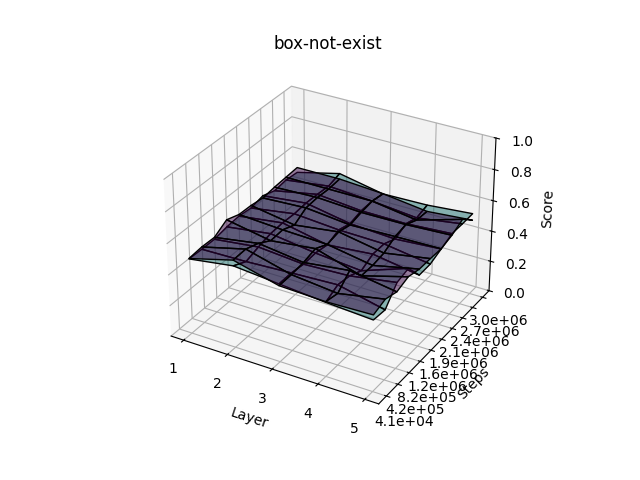
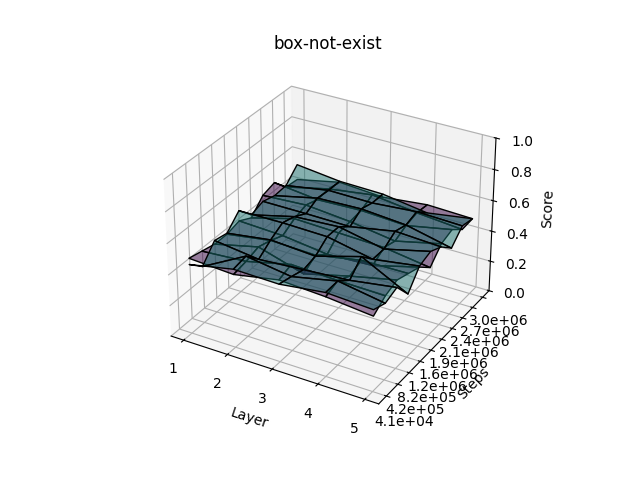
model

Changed region(s): [[0.2812, 0.3438, 0.75, 0.6875]]

diff --git a/methods/src/cav/__main__.py b/methods/src/cav/__main__.py
@@ -15,6 +15,7 @@ action_space = gym.action_space
 
 env = CAVWrapper(gym)
 concept_names = env.get_concept_names()
+concept_names = ["box-block", "box-not-block", "box-not-exist"]
 
 
 def plot(positive_concept: str, cav_scores: list, steps: list, prefix: str = ""):
@@ -40,7 +41,7 @@ def analyse(
         analysis = Analysis(
             models, positive_concept + ".csv", negative_concept + ".csv"
         )
-        analysis.run(averages=10)
+        analysis.run(averages=1)
         cav_scores.append(analysis.cav_scores)
         tcav_scores.append(analysis.tcav_scores)
         steps.append(analysis.steps)
@@ -54,4 +55,3 @@ for concept in concept_names:
         concept, negative_concept, observation_space, action_space
     )
     plot(concept, cav_scores, steps)
-    plot(concept, tcav_scores, steps, prefix="_tcav")

diff --git a/rl/src/dqn/dqn.py b/rl/src/dqn/dqn.py
@@ -47,8 +47,8 @@ class DQN(SingleAgentBase):
         epsilon_start: float = 1.0,
         epsilon_end: float = 0.05,
         epsilon_decay: int = 100000,
-        slow_decay_point: float = 0.45,
-        slow_decay_factor: float = 5,
+        slow_decay_point: float = 1,
+        slow_decay_factor: float = 1,
         batch_size: int = 64,
         tau: float = 0.005,
         hidden_layers: list[int] = [128, 128],

diff --git a/environments/gymnasium/envs/tag/tag_state.py b/environments/gymnasium/envs/tag/tag_state.py
@@ -28,7 +28,7 @@ class TagState:
         self.screen_height = screen_height
         self.state_type = state_type
         self.random_seeker_position = True
-        self.random_hider_position = False
+        self.random_hider_position = True
         self.random_box_position = False
         self._init_states(filename)
         self._init_dimensions()

diff --git a/environments/gymnasium/envs/tag/tag.py b/environments/gymnasium/envs/tag/tag.py
@@ -65,7 +65,7 @@ class TagEnv(gym.Env):
             filename,
         )
 
-        self.max_steps = self.state.width * self.state.height * 5
+        self.max_steps = self.state.width * self.state.height * 2
 
         self.tag_renderer = TagRenderer(
             self.state.width, self.state.height, self.screen_width, self.screen_height

diff --git a/environments/gymnasium/envs/tag/utils/bootcamp.py b/environments/gymnasium/envs/tag/utils/bootcamp.py
@@ -47,7 +47,7 @@ class Bootcamp:
         self.slow_agent = 0
 
         self.slow_hider_factor = 1
-        self.slow_seeker_factor = 2
+        self.slow_seeker_factor = 1
 
     def reset(self):
         self._name = BootcampName.HIDER

diff --git a/methods/src/cav/cav.py b/methods/src/cav/cav.py
@@ -182,5 +182,5 @@ class CAV:
     def _module_hook(self, module: nn.Module, input, output):
         self._activations[module] = {
             "input": input[0],
-            "output": output,
+            "output": input[0],
         }
